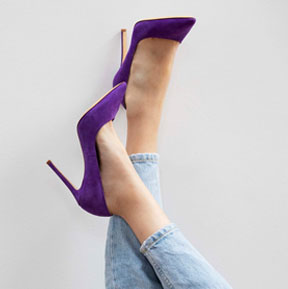
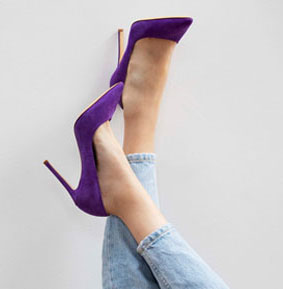
middle-lower finished

diff --git a/index.html b/index.html
@@ -6,6 +6,13 @@
     <meta name="viewport" content="width=device-width, initial-scale=1.0" />
     <title>Fashion88</title>
     <link rel="stylesheet" href="style.css" />
+    <link
+      rel="stylesheet"
+      href="https://cdnjs.cloudflare.com/ajax/libs/font-awesome/5.15.3/css/all.min.css"
+      integrity="sha512-iBBXm8fW90+nuLcSKlbmrPcLa0OT92xO1BIsZ+ywDWZCvqsWgccV3gFoRBv0z+8dLJgyAHIhR35VZc2oM/gI1w=="
+      crossorigin="anonymous"
+      referrerpolicy="no-referrer"
+    />
   </head>
   <body>
     <!-- HEADER -->
@@ -45,13 +52,13 @@
       </div>
 
       <div class="middle__lower">
-        <h2>tag your photos with #HAPPYPOINTS and #HAMSA TECHNOLOGIES</h2>
+        <p>tag your photos with #HAPPYPOINTS and #HAMSA TECHNOLOGIES</p>
         <div class="gallery">
           <img src="images/bottom_01.jpg" alt="bottom_01" />
           <img src="images/bottom_02.jpg" alt="bottom_02" />
           <img src="images/bottom_03.jpg" alt="bottom_03" />
           <img src="images/bottom_04.jpg" alt="bottom_04" />
-          <img src="images/bottom_04.jpg" alt="bottom_05" />
+          <img src="images/bottom_05.jpg" alt="bottom_05" />
         </div>
       </div>
     </section>

diff --git a/style.css b/style.css
@@ -73,7 +73,7 @@ header nav li:hover a {
 }
 
 /* MIDDLE */
-
+/* MIDDLE__UPPER */
 .middle__upper .left,
 .middle__upper .right {
   width: 50%;
@@ -120,4 +120,23 @@ header nav li:hover a {
 
 .middle__upper .right .text h2 {
   font-size: 1.8rem;
+}
+
+/* MIDDLE__LOWER */
+.middle__lower p {
+  font-size: 1.2rem;
+  padding: 1.3rem 0;
+  text-align: center;
+  text-transform: uppercase;
+}
+
+.middle__lower .gallery img {
+  float: left;
+  width: 20%;
+}
+
+.middle__lower .gallery::after {
+  content: "";
+  display: block;
+  clear: both;
 }
